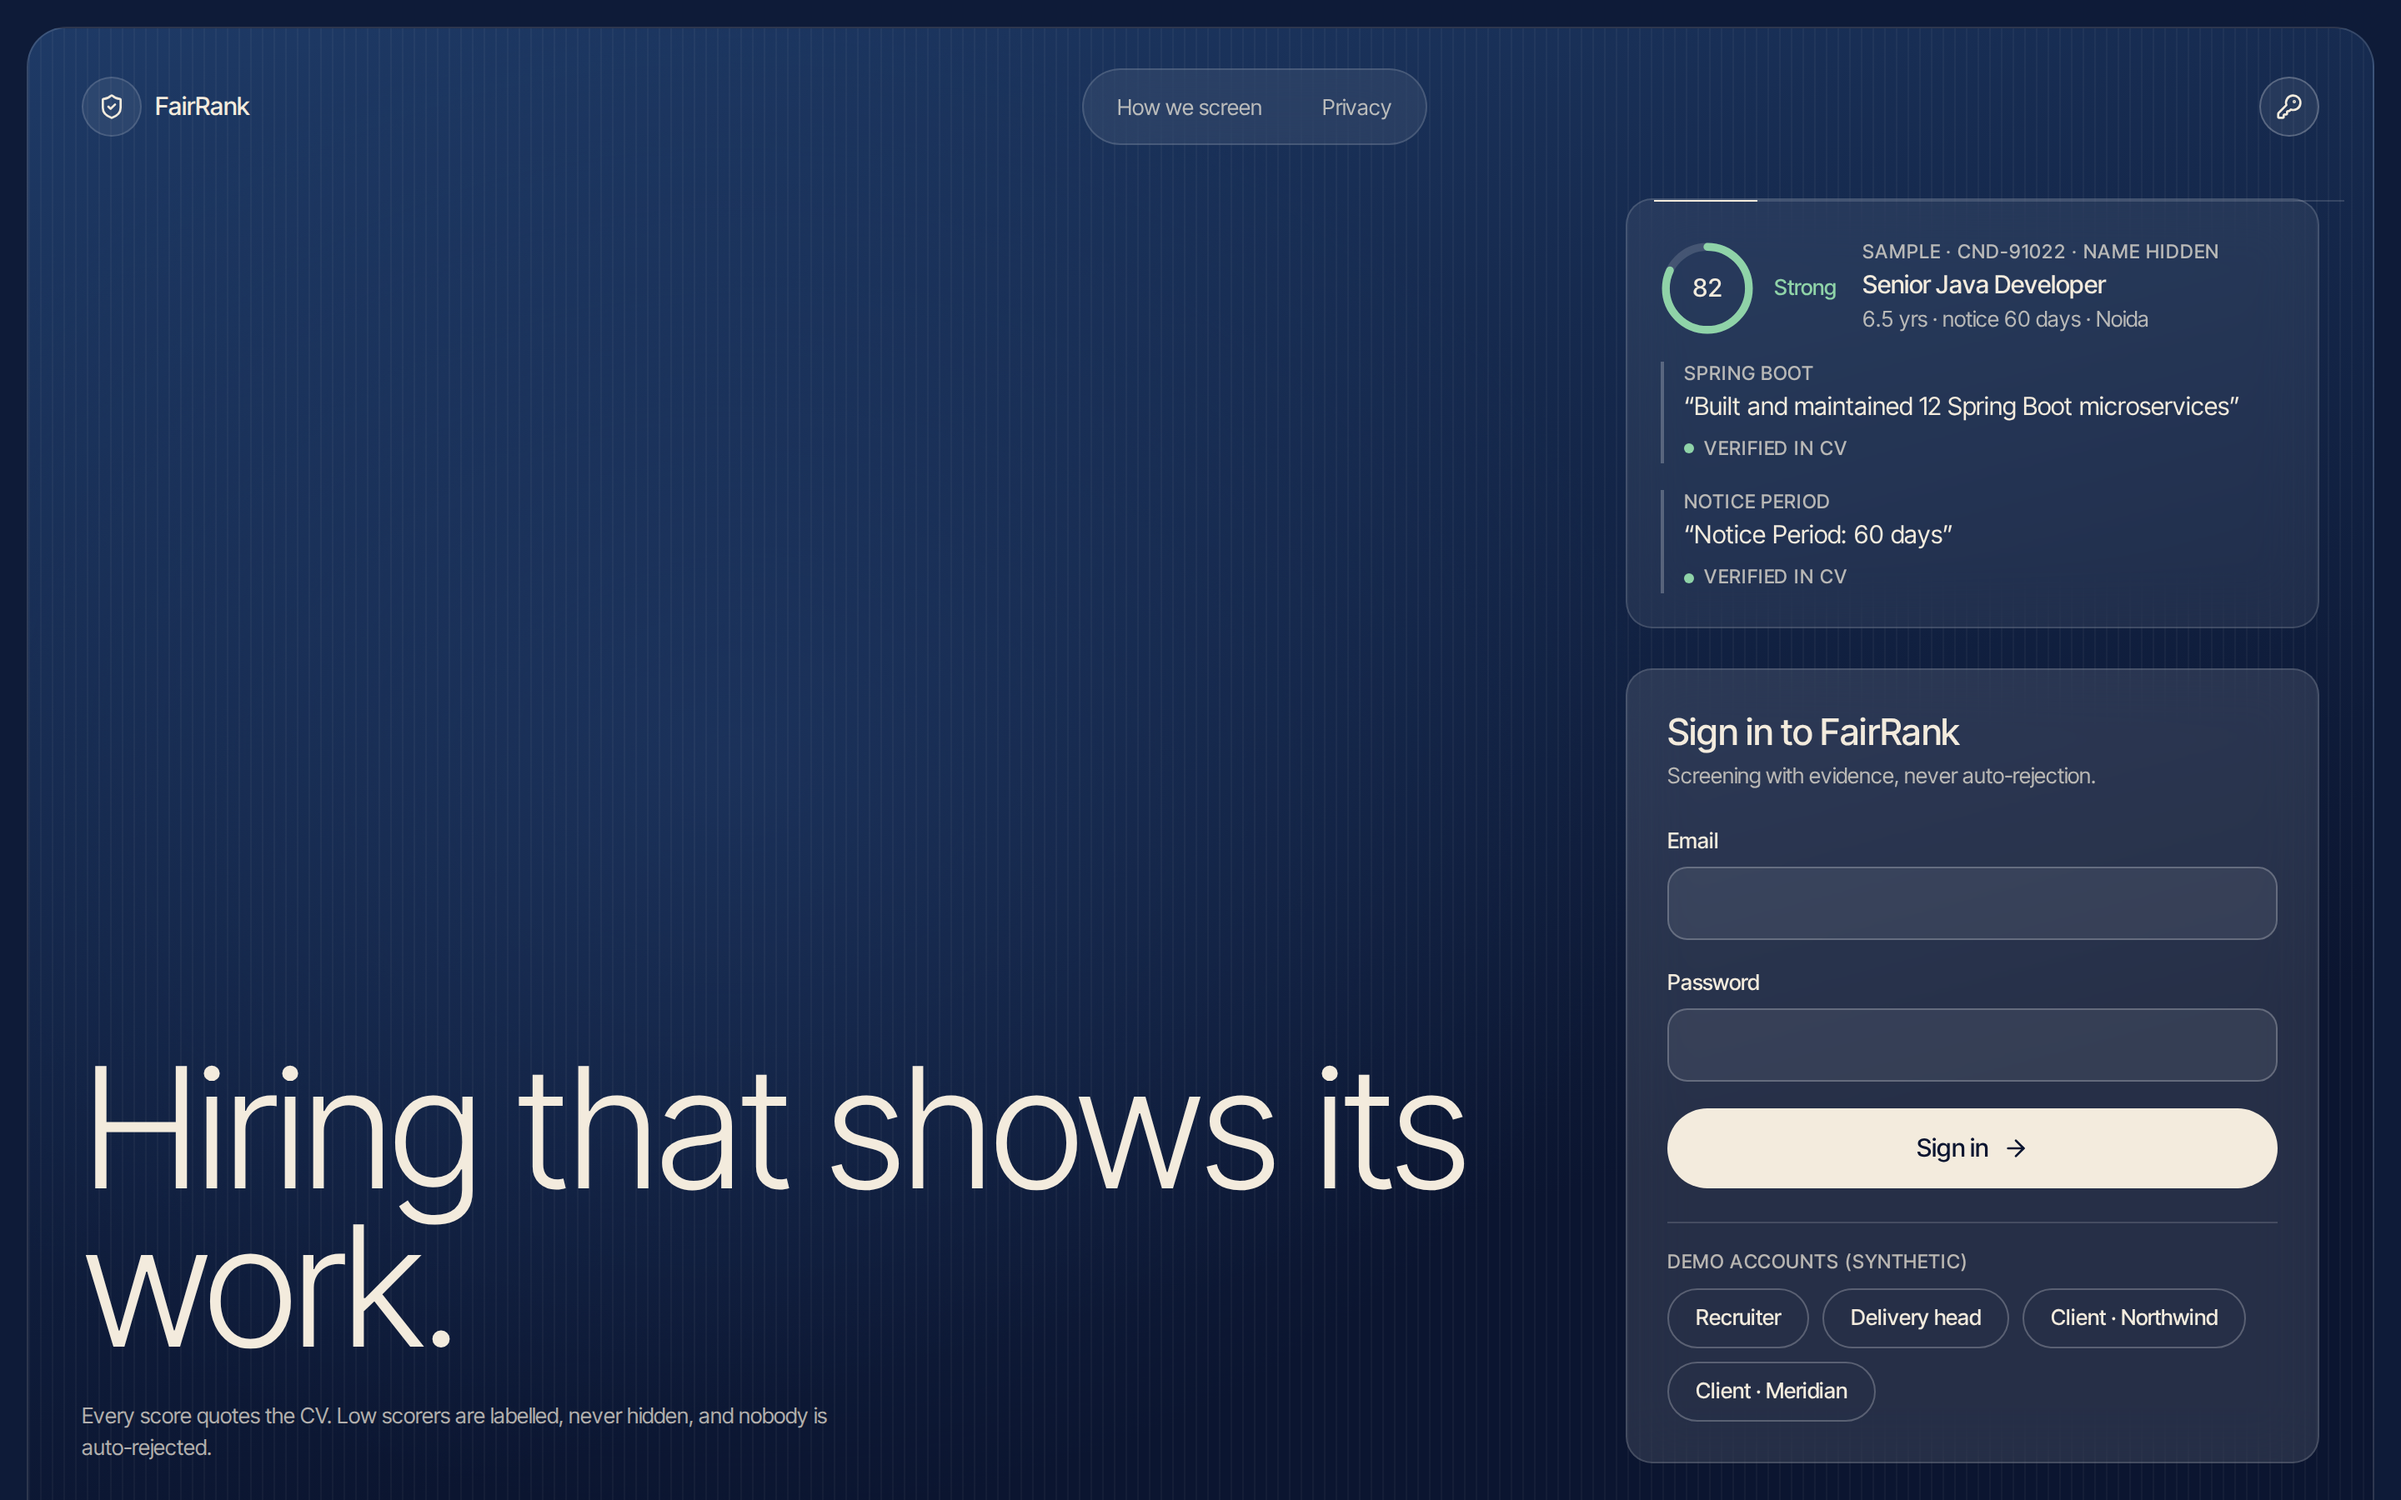
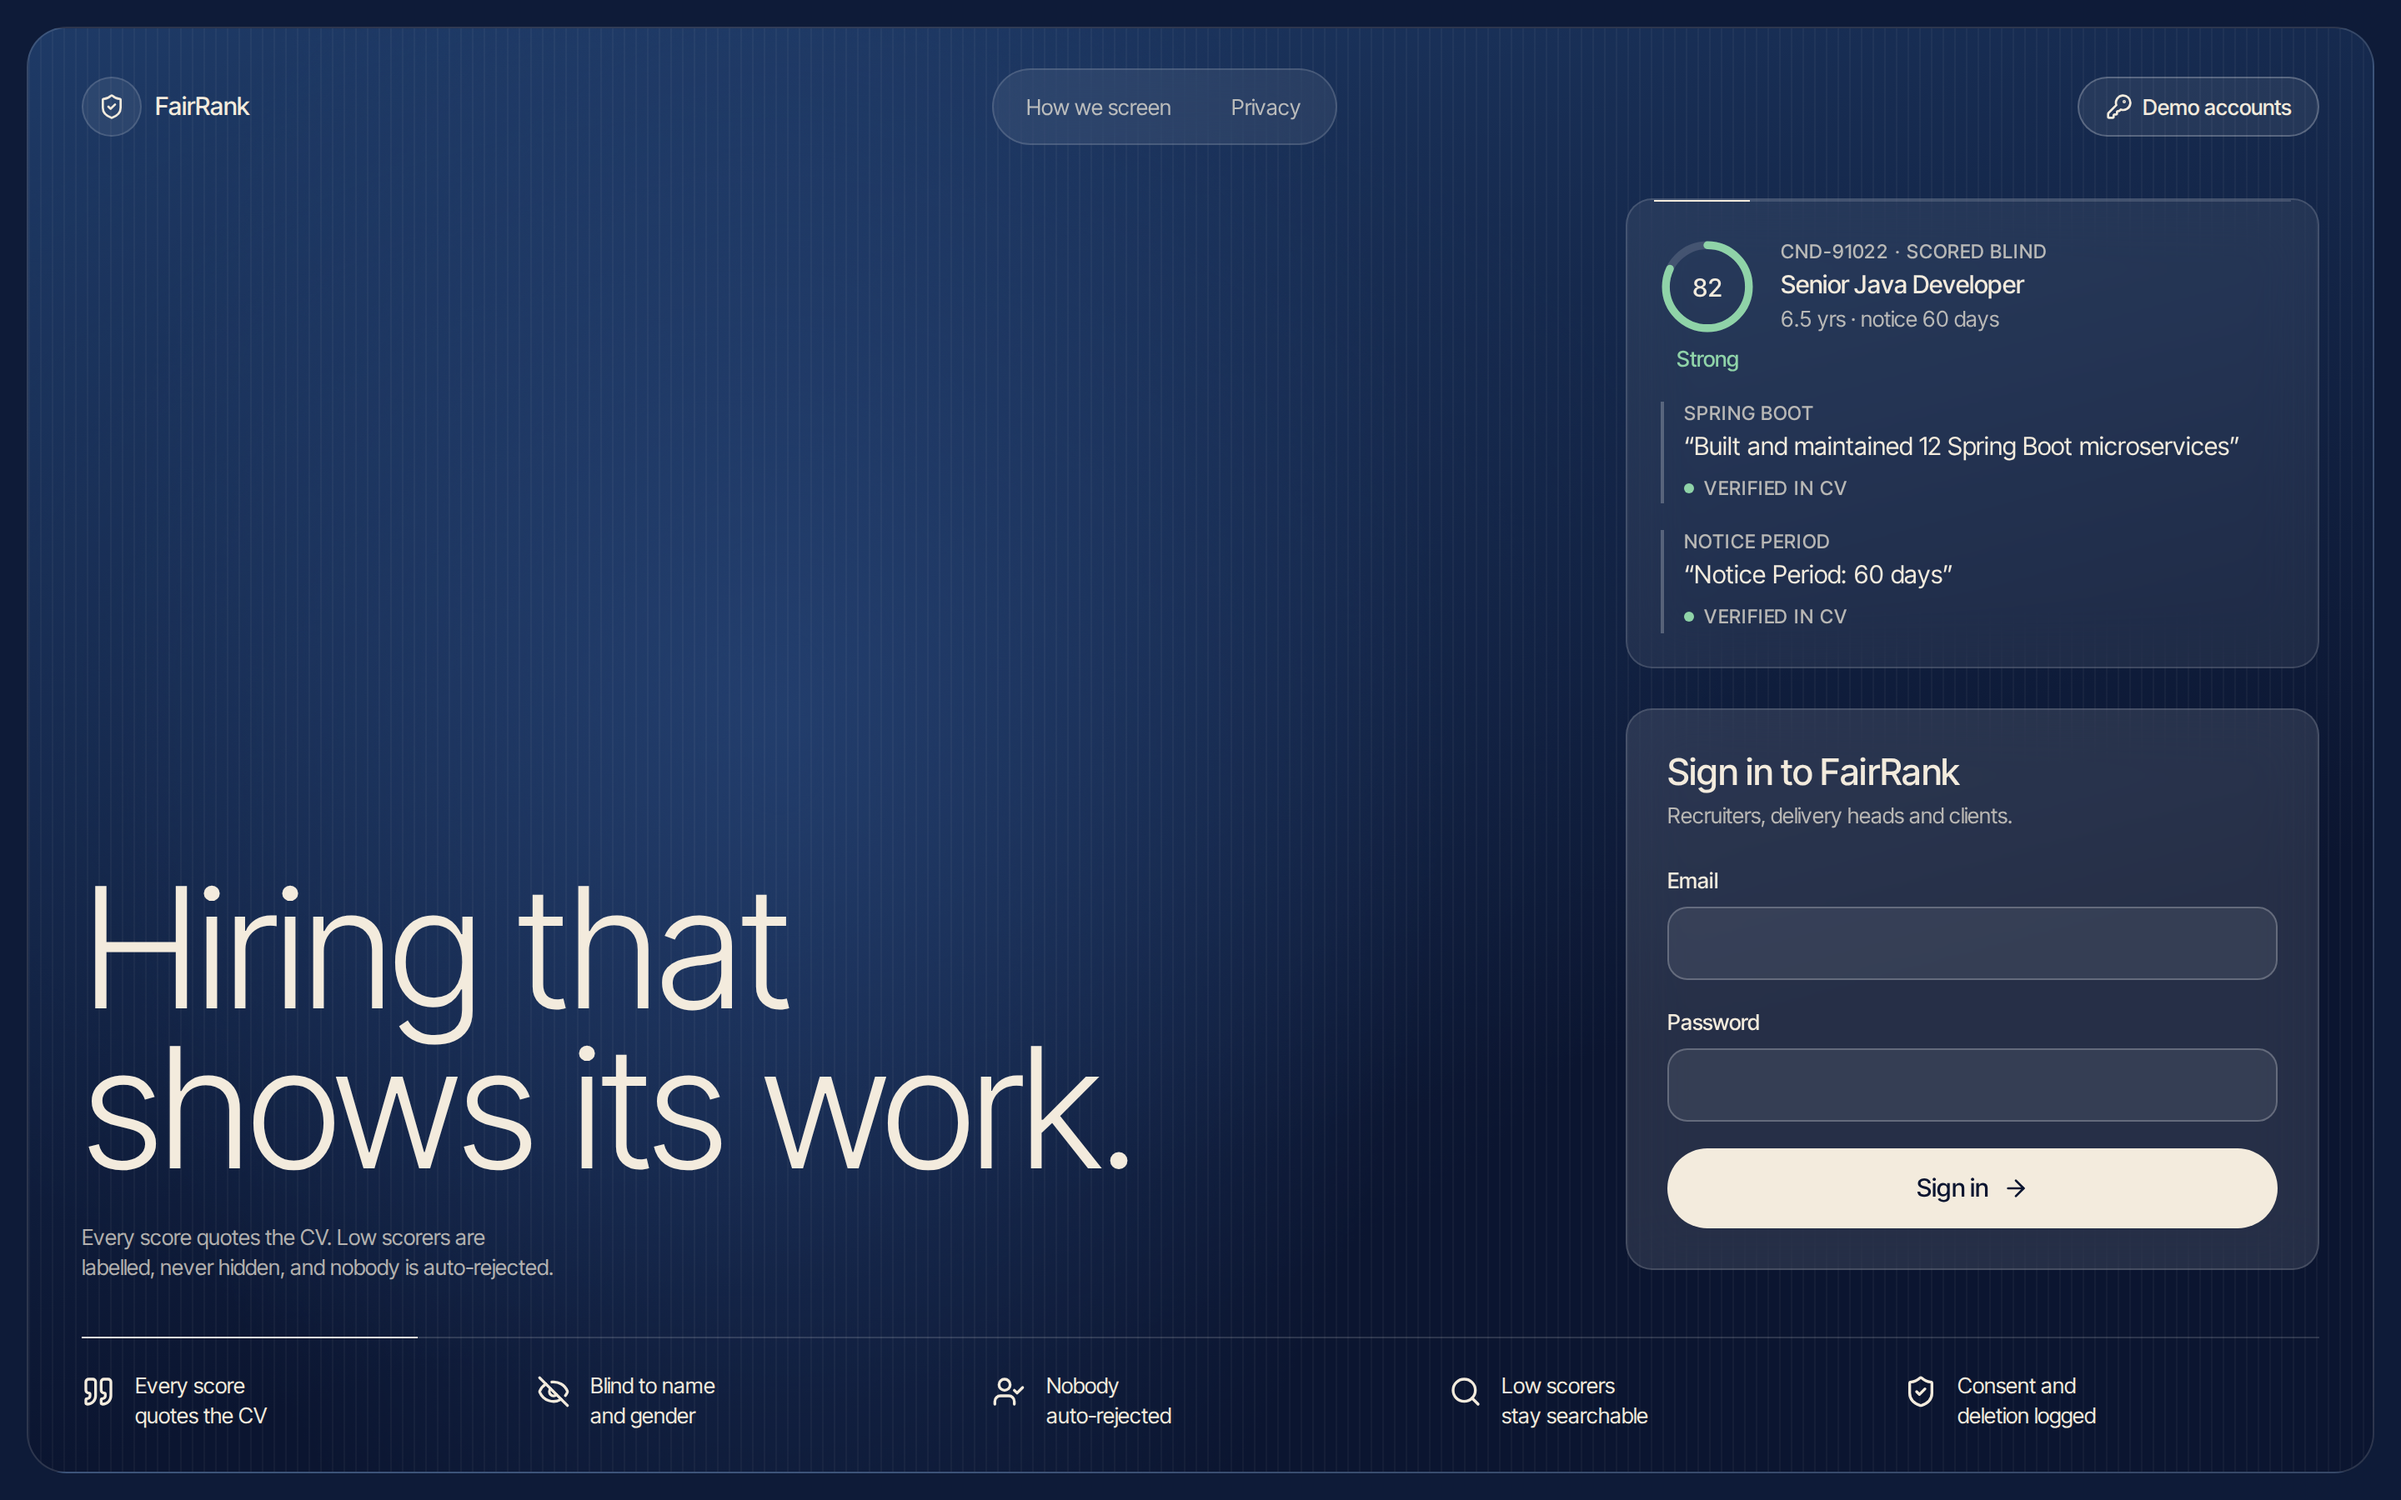
feat(ui): login visual review, two rounds (fits 1440x900, balanced headline, phone proof panel, demo-accounts popover)

diff --git a/frontend/src/pages/LoginPage.tsx b/frontend/src/pages/LoginPage.tsx
@@ -1,7 +1,7 @@
 import { zodResolver } from '@hookform/resolvers/zod'
 import { Info, KeyRound, ShieldCheck } from 'lucide-react'
 import { useState } from 'react'
-import { useForm } from 'react-hook-form'
+import { useForm, type UseFormReturn } from 'react-hook-form'
 import { Navigate, useNavigate } from 'react-router-dom'
 import { z } from 'zod'
 import { Button } from '@/components/ui/button'
@@ -26,12 +26,12 @@ type Values = z.infer<typeof schema>
 function ProofPanel() {
   return (
     <GlassPanel rule className="space-y-4 p-5 pt-6">
-      <div className="flex items-center gap-4">
-        <ScoreRing value={82} band="strong" size="md" />
+      <div className="flex items-start gap-4">
+        <ScoreRing value={82} band="strong" size="md" stacked />
         <div className="min-w-0">
-          <p className="text-micro uppercase text-text-2">Sample · CND-91022 · name hidden</p>
+          <p className="text-micro uppercase text-text-2">CND-91022 · scored blind</p>
           <p className="text-body font-medium">Senior Java Developer</p>
-          <p className="text-small text-text-2"><span className="tnum">6.5</span> yrs · notice <span className="tnum">60</span> days · Noida</p>
+          <p className="text-small text-text-2"><span className="tnum">6.5</span> yrs · notice <span className="tnum">60</span> days</p>
         </div>
       </div>
       <EvidenceQuote criterion="Spring Boot" quote="Built and maintained 12 Spring Boot microservices" status="verified" />
@@ -40,15 +40,15 @@ function ProofPanel() {
   )
 }
 
-function SignInCard({ showDemo }: { showDemo: boolean }) {
+function SignInCard({ form }: { form: UseFormReturn<Values> }) {
   const login = useLogin()
   const navigate = useNavigate()
-  const { register, handleSubmit, setValue, formState: { errors } } = useForm<Values>({ resolver: zodResolver(schema) })
+  const { register, handleSubmit, formState: { errors } } = form
   return (
     <GlassPanel strong className="space-y-5 p-6" >
       <div className="space-y-1">
         <h2>Sign in to FairRank</h2>
-        <p className="text-small text-text-2">Screening with evidence, never auto-rejection.</p>
+        <p className="text-small text-text-2">Recruiters, delivery heads and clients.</p>
       </div>
       <form
         className="space-y-4"
@@ -66,27 +66,6 @@ function SignInCard({ showDemo }: { showDemo: boolean }) {
           {login.isPending ? 'Signing in…' : 'Sign in'}
         </Button>
       </form>
-      {showDemo && (
-        <div className="space-y-2 border-t pt-4">
-          <p className="text-micro uppercase text-text-2">Demo accounts (synthetic)</p>
-          <div className="flex flex-wrap gap-2">
-            {DEMO_ACCOUNTS.map((a) => (
-              <Button
-                key={a.email}
-                type="button"
-                variant="secondary"
-                size="sm"
-                onClick={() => {
-                  setValue('email', a.email, { shouldValidate: true })
-                  setValue('password', DEMO_PASSWORD, { shouldValidate: true })
-                }}
-              >
-                {a.label}
-              </Button>
-            ))}
-          </div>
-        </div>
-      )}
     </GlassPanel>
   )
 }
@@ -94,7 +73,8 @@ function SignInCard({ showDemo }: { showDemo: boolean }) {
 export function LoginPage() {
   const { data: user } = useMe()
   const [dialog, setDialog] = useState<'screen' | 'privacy' | null>(null)
-  const [demo, setDemo] = useState(true)
+  const [demo, setDemo] = useState(false)
+  const form = useForm<Values>({ resolver: zodResolver(schema) })
   if (user) return <Navigate to={homeFor(user.role)} replace />
 
   return (
@@ -111,22 +91,43 @@ export function LoginPage() {
               { label: 'Privacy', onClick: () => setDialog('privacy') },
             ]}
           />
-          <div className="flex size-9 items-center justify-end">
+          <div className="relative flex h-9 items-center justify-end" onKeyDown={(e) => e.key === 'Escape' && setDemo(false)}>
             {DEMO_ENABLED && (
-              <Button variant="secondary" size="icon-sm" aria-label="Demo accounts" aria-pressed={demo} className="bg-glass" onClick={() => setDemo((d) => !d)}>
-                <KeyRound />
-              </Button>
+              <>
+                <Button variant="secondary" size="sm" aria-label="Demo accounts" aria-expanded={demo} className="bg-glass max-sm:size-9 max-sm:px-0" onClick={() => setDemo((d) => !d)}>
+                  <KeyRound /> <span className="max-sm:hidden">Demo accounts</span>
+                </Button>
+                {demo && (
+                  <GlassPanel strong className="absolute right-0 top-full z-20 mt-2 w-64 space-y-1 bg-surface-2 p-2 shadow-float">
+                    <p className="px-3 pt-2 text-micro uppercase text-text-2">Synthetic accounts</p>
+                    {DEMO_ACCOUNTS.map((a) => (
+                      <button
+                        key={a.email}
+                        type="button"
+                        className="flex min-h-11 w-full items-center rounded-input px-3 text-left text-small hover:bg-glass-strong"
+                        onClick={() => {
+                          form.setValue('email', a.email, { shouldValidate: true })
+                          form.setValue('password', DEMO_PASSWORD, { shouldValidate: true })
+                          setDemo(false)
+                        }}
+                      >
+                        {a.label}
+                      </button>
+                    ))}
+                  </GlassPanel>
+                )}
+              </>
             )}
           </div>
         </header>
 
         <main className="grid flex-1 gap-6 lg:grid-cols-[1fr_26rem] lg:grid-rows-[auto_1fr] lg:gap-x-12">
           <div className="space-y-5 lg:col-start-1 lg:row-span-2 lg:row-start-1 lg:self-end">
-            <h1 className="text-display">Hiring that shows its work.</h1>
-            <p className="max-w-md text-small text-text-2">Every score quotes the CV. Low scorers are labelled, never hidden, and nobody is auto-rejected.</p>
+            <h1 className="text-display text-balance">Hiring that shows its work.</h1>
+            <p className="max-w-sm text-balance text-small text-text-2">Every score quotes the CV. Low scorers are labelled, never hidden, and nobody is auto-rejected.</p>
           </div>
           <div className="lg:col-start-2 lg:row-start-2">
-            <SignInCard showDemo={DEMO_ENABLED && demo} />
+            <SignInCard form={form} />
           </div>
           <div className="lg:col-start-2 lg:row-start-1">
             <ProofPanel />

diff --git a/frontend/src/index.css b/frontend/src/index.css
@@ -171,7 +171,8 @@ dialog.modal {
   border: 1px solid var(--border);
   border-radius: var(--r-frame);
   background:
-    radial-gradient(55% 65% at 30% 45%, color-mix(in srgb, var(--bg-highlight) 35%, transparent), transparent 72%),
+    radial-gradient(38% 95% at 32% 48%, color-mix(in srgb, var(--bg-highlight) 55%, transparent), transparent 75%),
+    radial-gradient(60% 70% at 30% 45%, color-mix(in srgb, var(--bg-highlight) 30%, transparent), transparent 72%),
     linear-gradient(165deg, var(--bg-bloom) 0%, var(--bg-base) 70%);
 }
 .showcase-canvas::before {

diff --git a/frontend/src/components/ui/glass-panel.tsx b/frontend/src/components/ui/glass-panel.tsx
@@ -4,7 +4,7 @@ import { cn } from '@/lib/utils'
 export function GlassPanel({ children, strong = false, rule = false, className }: { children: React.ReactNode; strong?: boolean; rule?: boolean; className?: string }) {
   return (
     <div className={cn('relative rounded-card border backdrop-blur-(--blur-glass)', strong ? 'bg-glass-strong' : 'bg-glass', className)}>
-      {rule && <HairlineRule className="absolute inset-x-4 top-0" />}
+      {rule && <HairlineRule className="absolute left-4 right-4 top-0 w-auto" />}
       {children}
     </div>
   )

diff --git a/scripts/screenshots.py b/scripts/screenshots.py
@@ -65,7 +65,9 @@ def run(name: str, view: str, page: Page) -> None:
     else:
         raise SystemExit(f"unknown screen: {name}")
     settle(page)
-    full = name in ("components", "ranked", "candidate", "portal", "portal-candidate")
+    full = name != "login" or view == "phone"
+    dims = page.evaluate("[document.documentElement.scrollWidth, innerWidth, document.documentElement.scrollHeight, innerHeight]")
+    print(f"{name}-{view}: scrollW={dims[0]} viewW={dims[1]} scrollH={dims[2]} viewH={dims[3]}" + ("  HORIZONTAL SCROLL" if dims[0] > dims[1] else ""))
     OUT.mkdir(parents=True, exist_ok=True)
     if CLIP:
         x, y, w, h = (float(v) for v in CLIP.split(","))
